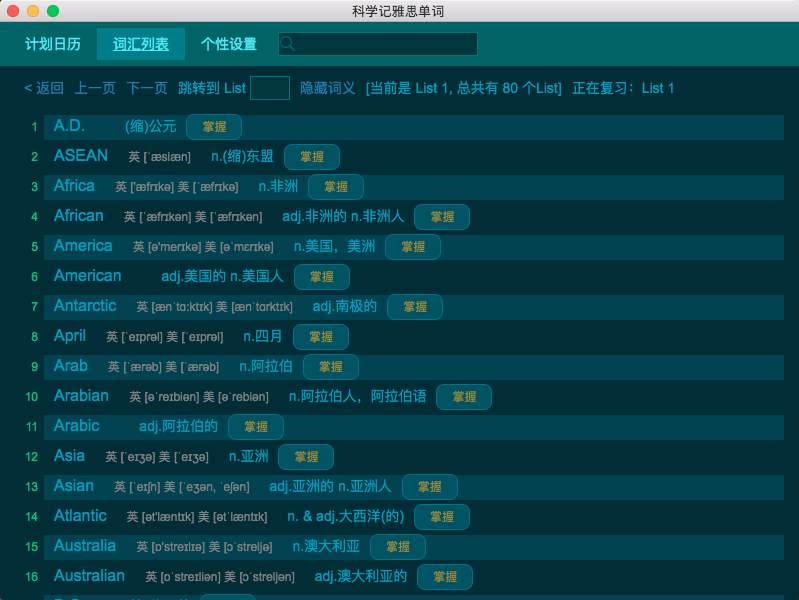
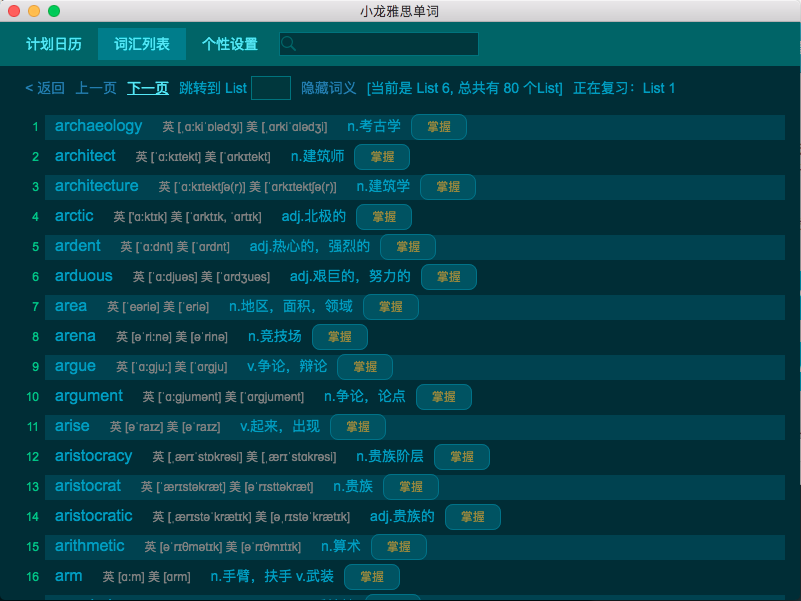
Added wechat.

diff --git a/source/vocabulary/index.html b/source/vocabulary/index.html
@@ -2,7 +2,7 @@
 <html>
   <head>
     <meta charset="UTF-8">
-    <title>科学记雅思单词</title>
+    <title>小龙记雅思单词</title>
     <link media="all" rel="stylesheet" href="main.css">
   </head>
   <body>
@@ -24,15 +24,15 @@
       <div class="description" layout="column">
       <p>使用小龙背雅思单词，科学记住雅思单词不遗忘，妈妈再也不用担心我记单词了。</p>
        <p>
-        现在就点击下面链接下载免费使用！
+        现在就点击下面链接下载免费使用！(windows版本稍后放出，敬请期待！)
       </p>
       <div>
         <a href="./vocabulary-mac-v0.0.1-20181202.dmg">下载 MacOS v0.0.1</a>
-        <a href="./vocabulary-windows-v0.0.1-20181202.zip">下载 Windows v0.0.1</a>
+        <!--<a href="./vocabulary-windows-v0.0.1-20181202.zip">下载 Windows v0.0.1</a>-->
         <!--<a href="">Linux v0.0.1 下载</a>-->
       </div>
-      <p>支持本项目，欢迎扫描下面二维码捐赠支持</p>
-
+      <p>支持本项目，欢迎微信扫描下面二维码赞赏支持</p>
+      <img src="./images/wechat.png" />
       </div>
     </section>
     <footer>Copyright&copy; by Mellong 2018.</footer>
